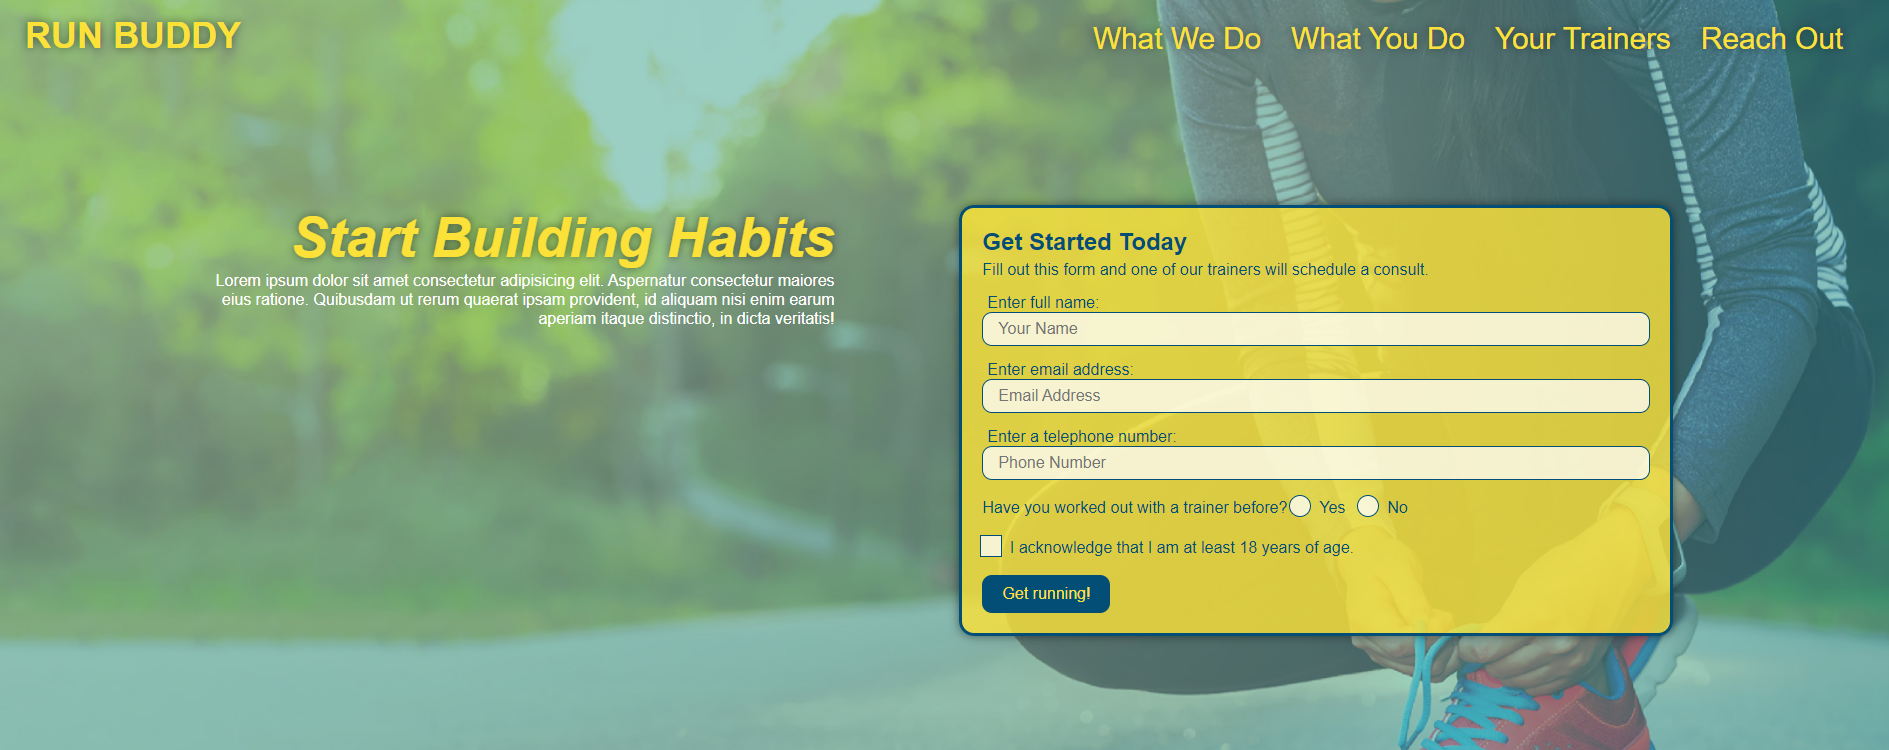
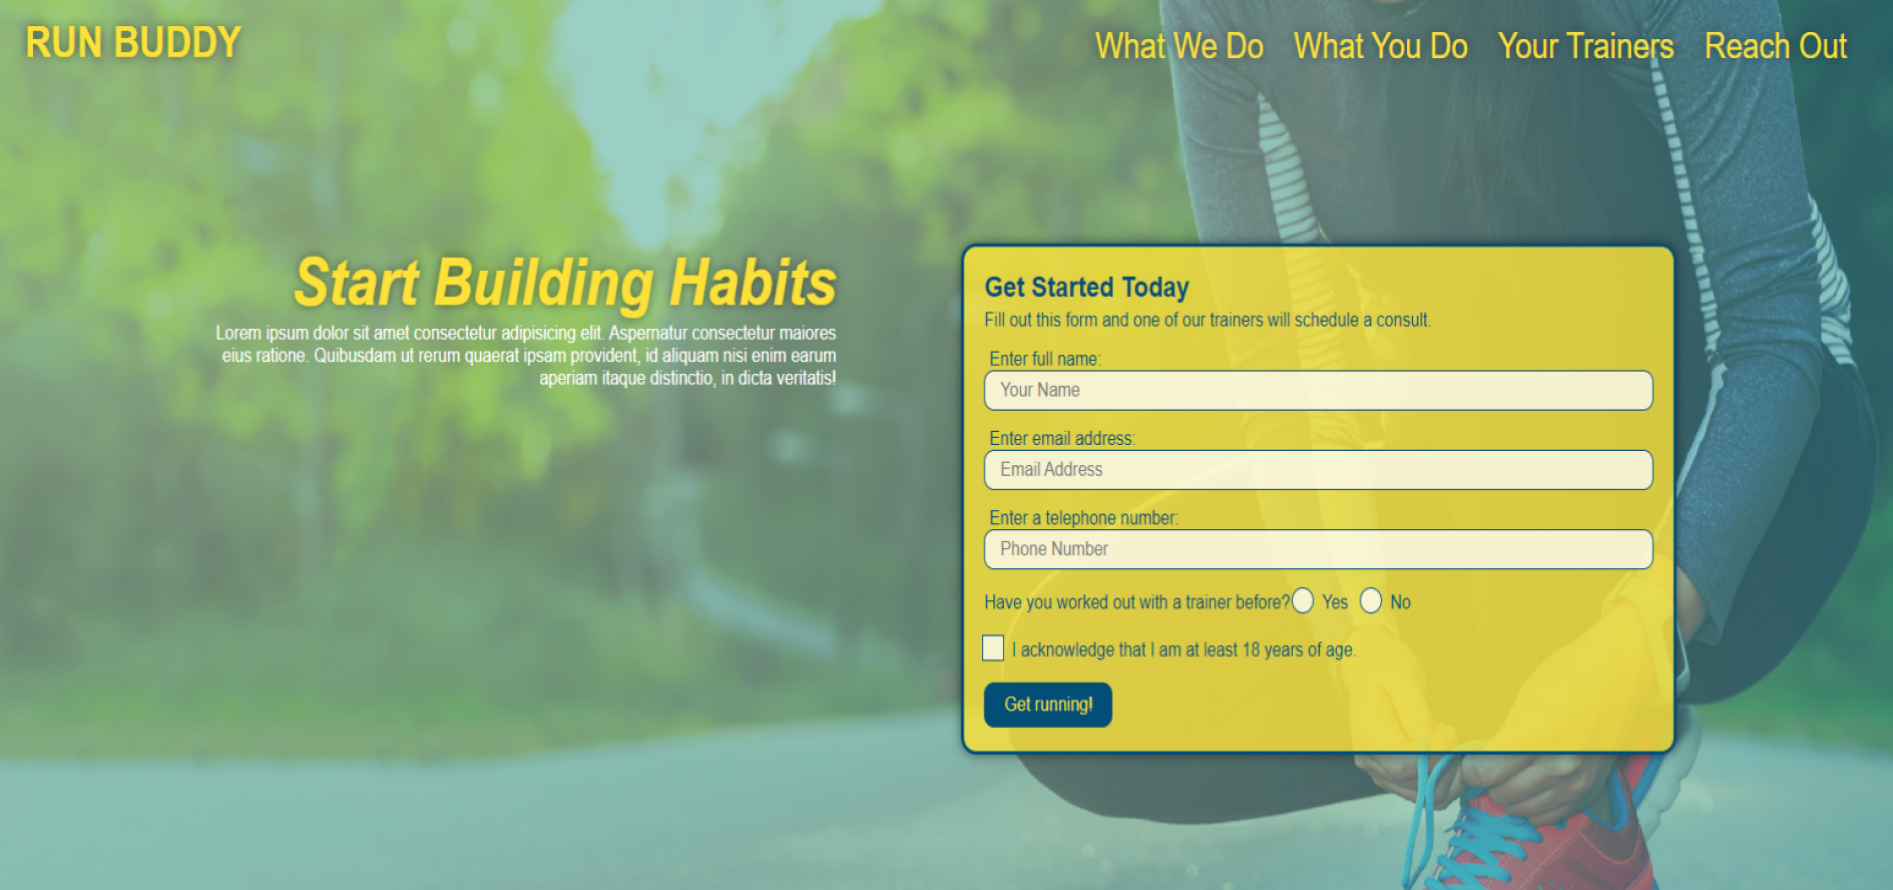
modifying contact info and making it responsive

diff --git a/index.html b/index.html
@@ -68,36 +68,20 @@
       </div> 
 
     <!-- contact info -->
-    <section class="contact">
-      <div class="flex-row">
-        <h1 class="title">Contact Info</h1>
-      </div>
-  
-  <div class="contact-info">
-      <div>
-          <h3>Bri Cassellius</h3>
-          <p>
-              I'd love to hear from you!
-          </p>
-          <address>
-              557 Hamilton Ct. <br/>
-              River Falls, WI <br/>
-              54022 <br/>
-              P: 555.786.2839 <br/>
-              E: <a href="mailto:bhilliker@gmail.com">bhilliker@gmail.com</a>
-          </address>
-      </div>
-
-      <div id="contact" class="contact">
-        <h2>I'd love to hear from you!</h2>
-      </div>
+    <section id="contact" class="contact">
+        <div class="flex-row">
+          <h1 class="title">Contact Info</h1>
+        </div>
+        <div class="contact-info">
+          <h2>I'd love to hear from you!</h2>
+        </div>
       
       <div class="row">
         <div class="column" >Email: <a href="mailto:bhilliker@gmail.com">bhilliker@gmail.com</a></div>
-        <div class="column" >Address: <br/> 557 Hamilton Ct. <br/>
+        <div class="column" >Address: <br/> Bri Cassellius <br/> 557 Hamilton Ct. <br/>
           River Falls, WI <br/>
           54022 <br/></div>
-        <div class="column" >LinkdIn: <a href="linkedin.com/in/bri-cassellius-04286b211" target=_blank>Bri Cassellius</a></div>
+        <div class="column" >LinkdIn: <a href="http://www.linkedin.com/in/bri-cassellius-04286b211" target=_blank>Bri Cassellius</a></div>
             </div>
       
 

diff --git a/assets/css/style.css b/assets/css/style.css
@@ -5,7 +5,7 @@
 }
 
 :root {
-    --color1: #ffca38;
+    --color1: #f3a245;
     --color2: #0079a8;
     --color3: #39b2b2;
     --color4: #a3d4dd;
@@ -81,8 +81,6 @@ header nav ul li a:hover {
 }
 
 /* about me */
-
-
 .info{
     background-color: var(--color3);
     padding: 20px;
@@ -142,12 +140,11 @@ header nav ul li a:hover {
 .sample span {
     background: var(--color3);
     color: var(--color4);
-    top: 10px;
-    right: 10px;
     margin-top: auto;
     width: 100%;
     padding: 10px 5px;
     text-align: center;
+    font-size: 25px;
 }
 
 .flex-row {
@@ -159,8 +156,11 @@ header nav ul li a:hover {
 .contact{
     background-color: var(--color3);
 }
+
 .row{
     flex:wrap;
+    display: -webkit-flex;
+    display: flex;
     color: var(--color4);
     background-color: var(--color3);
     font-size: 25px;
@@ -168,28 +168,20 @@ header nav ul li a:hover {
     text-decoration: none;
 }
 
-/* Style the header */
-.header {
-    background-color: #f1f1f1;
+.contact-info {
+    background-color: var(--color3);
     padding: 30px;
     text-align: center;
     font-size: 35px;
+    color: var(--color1)
   }
   
-  /* Container for flexboxes */
-  .row {
-    display: -webkit-flex;
-    display: flex;
-  }
-  
-  /* Create three equal columns that sits next to each other */
   .column {
     -webkit-flex: 1;
     -ms-flex: 1;
     flex: 1;
     padding: 10px;
-    height: 300px; /* Should be removed. Only for demonstration */
-  }
+   }
   
   /* Style the footer */
   .footer {
